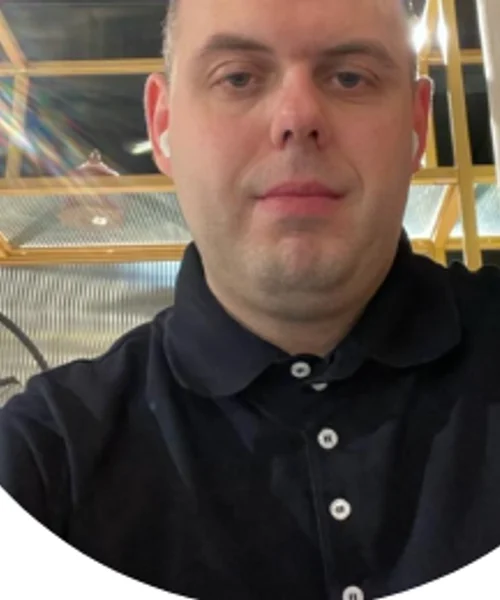
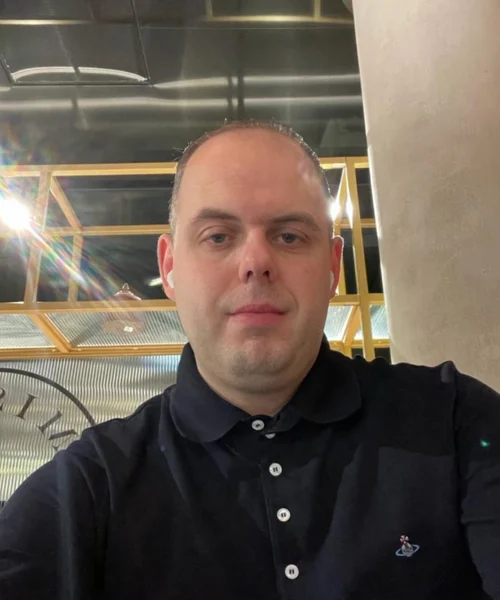
new Rob + Sana photos, Sam Sneyd added, Jaz cropped left, Reece slot 72%
- Rob: new full portrait (natural bar background), cover-crop top so his
  whole head is in frame; removed the fit: contain / center override
- Sana: new natural headshot the user supplied (400x400 with soft
  leaves bg); cover-crop top, natural background preserved; removed
  the desktop right-composite treatment since the source is already
  a clean portrait
- Jaz: cover position "left" so more of George's left ear is visible
  (was previously center, clipping him slightly)
- Added Sam Sneyd — new quote entry from his testimonial transcript:
    role: Business owner, Bentley Independent Financial Advisors
    metric: Three and a half months in · a bespoke, holistic plan built
            around a busy lifestyle
    quote: The main benefit I've had is just a lot more energy.
- Wide-slide media flex bumped 65% → 72% on desktop so Reece / Vish /
  Kieran / Jaz photos fill more of the card

diff --git a/app/page.tsx b/app/page.tsx
@@ -100,13 +100,16 @@ const QUOTES: Quote[] = [
   { photo: "/images/steve-want.webp", fit: "contain", name: "Steve Want", role: "Creative Brand Designer, PET-Xi Training",
     metric: "Five months · off the sofa and onto the trampoline with his four-year-old",
     quote: "My energy levels have gone through the roof." },
+  { photo: "/images/sam-sneyd.webp", name: "Sam Sneyd", role: "Business owner, Bentley Independent Financial Advisors",
+    metric: "Three and a half months in · a bespoke, holistic plan built around a busy lifestyle",
+    quote: "The main benefit I've had is just a lot more energy." },
   { photo: "/images/andrew-thompson.webp", fit: "contain", pos: "center top", name: "Andrew Thompson", role: "Head of UK Water, Fingleton White",
     metric: "14kg off in seven months · running faster in his forties than his thirties",
     quote: "Long-term health is the ROI. This was life-changing for me." },
   { photo: "/images/ian-tilley.webp", name: "Ian Tilley", role: "Operations Manager, NG Bailey Midlands",
     metric: "13kg down in four months · higher energy, sharper focus · better business performance · more quality time with family",
     quote: "And it hasn't felt difficult." },
-  { photo: "/images/rob-allen-pugh.webp", fit: "contain", pos: "center center", name: "Rob Allen-Pugh", role: "Senior Manager, Nova Solar Renewables",
+  { photo: "/images/rob-allen-pugh.webp", name: "Rob Allen-Pugh", role: "Senior Manager, Nova Solar Renewables",
     metric: "The all-or-nothing cycle, broken",
     quote: "My mentality with health and fitness used to be all or nothing before meeting George." },
   { photo: "/Testimonial pictures/Kieran - 1.webp", wide: true, name: "Kieran Kearns", role: "Senior Bid Manager, Frankham Group",
@@ -127,7 +130,7 @@ const QUOTES: Quote[] = [
   { photo: "/images/lukman.webp", name: "Lukman", role: "Dentist",
     metric: "WHOOP stress reading hit zero for the first time",
     quote: "The thing that would have wrecked a week became a conversation." },
-  { photo: "/images/sana-ali.webp", desktopOnly: true, fit: "contain", name: "Sana Ali", role: "Consultant Paediatric Radiologist",
+  { photo: "/images/sana-ali.webp", desktopOnly: true, name: "Sana Ali", role: "Consultant Paediatric Radiologist",
     metric: "Health as complete physical, mental and social wellbeing — the whole picture",
     quote: "One of the first things I was ever taught at medical school was the World Health Organisation's definition of health, which is that 'health is a state of complete physical, mental and social wellbeing and not merely the absence of disease or infirmity'. George's coaching style and training programme truly encompasses this, and that is why I love it so much." },
   { photo: "", name: "Commercial Director", role: "Name withheld by request",

diff --git a/app/globals.css b/app/globals.css
@@ -214,7 +214,7 @@ iframe.emb { width: 100%; aspect-ratio: 16/9; border: 0; display: block; }
 @media (min-width: 820px) { .qc-media { flex: 0 0 38%; } }
 /* Wide entries (Vish, Kieran, Jaz, Reece) get more photo width on desktop
    so the collage/paired image reads bigger. Photo aspect stays 1:1. */
-@media (min-width: 820px) { .slide-wide .qc-media { flex: 0 0 65%; } }
+@media (min-width: 820px) { .slide-wide .qc-media { flex: 0 0 72%; } }
 /* Photo aspect: square on mobile (compact, face visible), portrait 4:5 on
    desktop (more editorial). Wide collages stay 1:1 at every breakpoint.
    White background so bg-removed portraits blend seamlessly with .qc-media */
